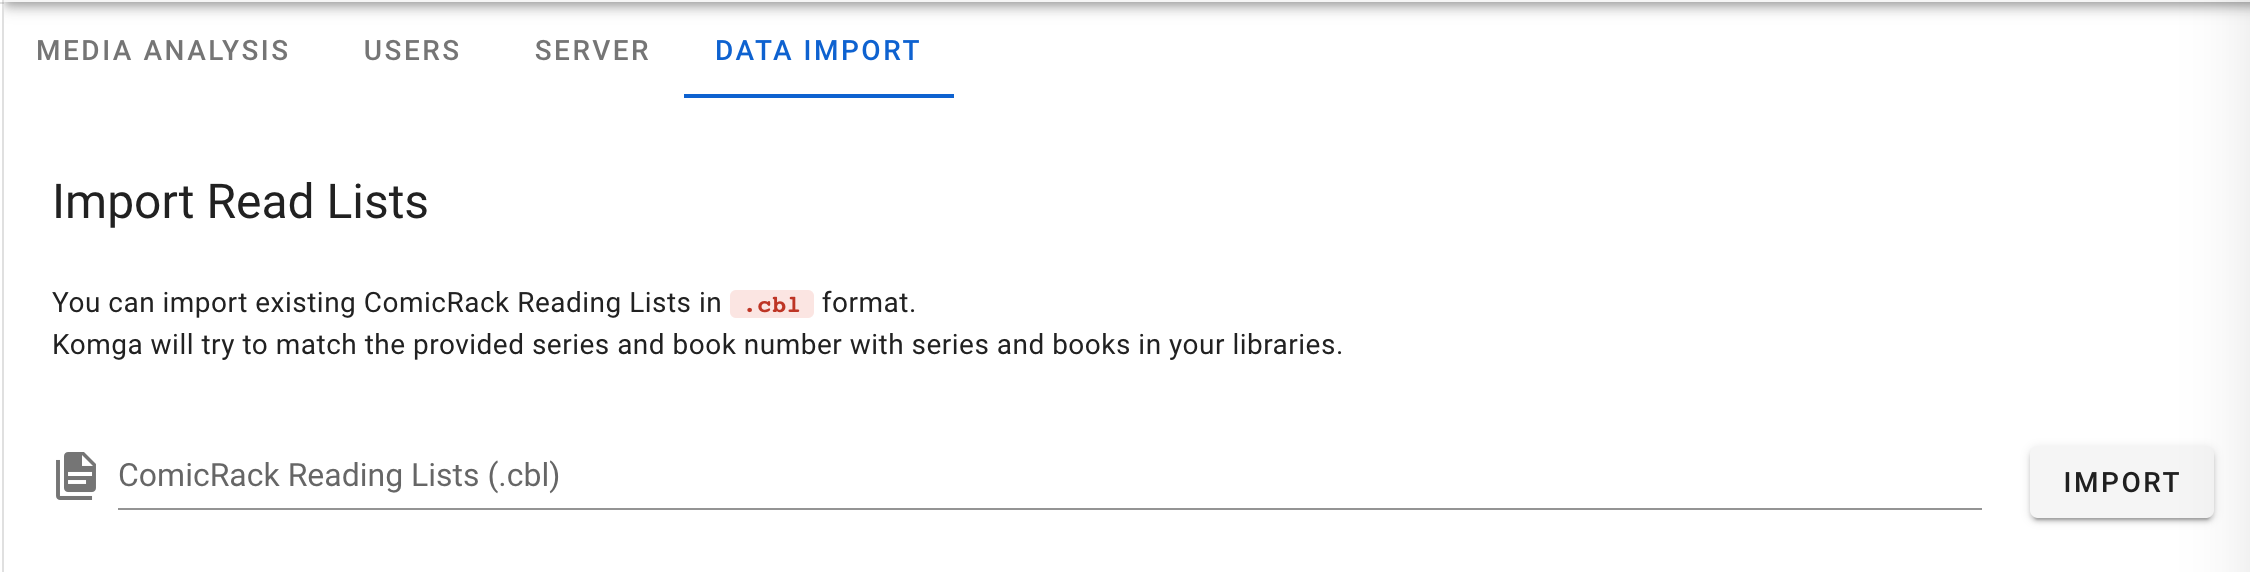
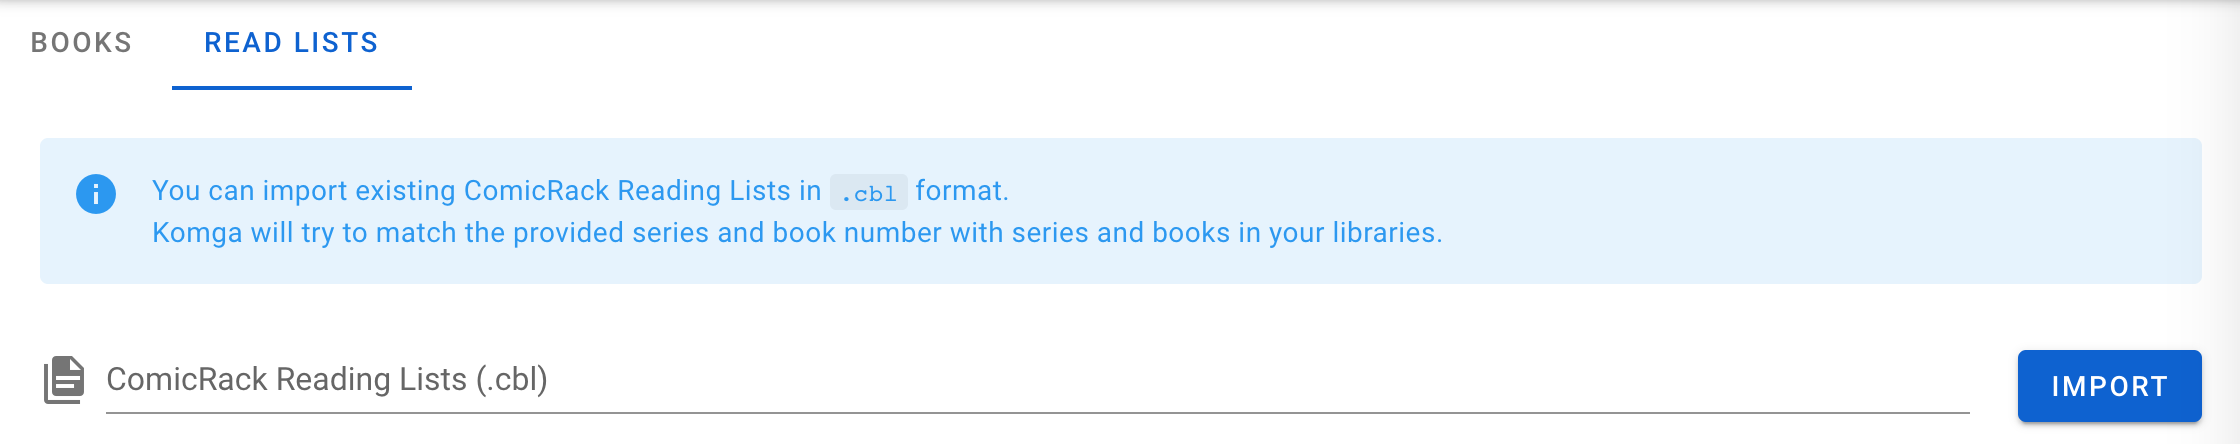
docs: update read list import

diff --git a/src/guides/readlists.md b/src/guides/readlists.md
@@ -63,7 +63,7 @@ This will not delete the items in the read list, nor your media files.
 
 ## Import read lists from ComicRack
 
-You can import ComicRack reading lists in `.cbl` format from the _Server Settings > Data Import_ screen.
+You can import ComicRack reading lists in `.cbl` format from the _Import > Read Lists_ screen.
 
 Select multiple files to import them all at once.
 
